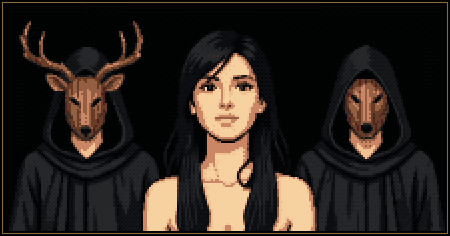
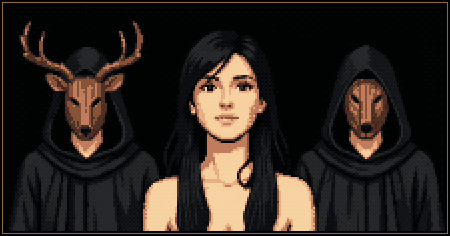
Pin the stage close-up palette so Eleanor's face is unchanged
The locks shifted the generated palette, which re-dithered her lips. Use
the palette the panels had before, so only the hair differs from main.

diff --git a/tools/art/closeup.py b/tools/art/closeup.py
@@ -33,18 +33,16 @@ HALF = (AW - BAR) // 2
 MICAH_SRC = os.path.join(ROOT, "tools", "art", "src", "convent_micah.png")
 ELEANOR_SRC = os.path.join(ROOT, "tools", "art", "src", "convent_eleanor.png")
 MICAH_FACE_X, ELEANOR_FACE_X = 672, 665  # face centres in the 1344x768 sources
+# One palette for both stage variants, so they differ only where the dress is. Pinned to the one the pictures had
+# before the locks of hair were painted in, so her face reduces to exactly the same pixels as it always did.
+STAGE_PALETTE = [hx(c) for c in """
+f6d3a3 f6d1a2 f6cf9d e6af84 c07c5c 865338 4d3124 26282b 252729 242628 781f27 4f1b1b 242223 1e2022 18181a 141518
+111316 101114 0d0e11 0a0c0f 0a090b 060608 030405 030204 010202 010102 010101 010100 010001 000101 000001 000000
+""".split()]
 
 
-def shared_palette(nude, clothed):
-    """One palette for both variants, so they differ only where the dress is."""
-    both = Image.new("RGB", (AW, AH * 2))
-    both.paste(nude.convert("RGB").resize((AW, AH), Image.BOX), (0, 0))
-    both.paste(clothed.convert("RGB").resize((AW, AH), Image.BOX), (0, AH))
-    return palette_of(both, COLOURS)
-
-
-def stage_closeup(src, pal):
-    """Eleanor on the stage, framed; src is the nude or the clothed picture, pal their shared palette."""
+def stage_closeup(src, pal=STAGE_PALETTE):
+    """Eleanor on the stage, framed; src is the nude or the clothed picture."""
     return framed(src.convert("RGB"), pal)
 
 
@@ -155,9 +153,8 @@ def heraldry_closeup():
 
 def build():
     nude, clothed = Image.open(SRC), Image.open(CLOTHED_SRC)
-    pal = shared_palette(nude, clothed)
-    save(stage_closeup(nude, pal), "ui", "stage_closeup.png")
-    save(stage_closeup(clothed, pal), "ui", "stage_closeup_clothed.png")
+    save(stage_closeup(nude), "ui", "stage_closeup.png")
+    save(stage_closeup(clothed), "ui", "stage_closeup_clothed.png")
     save(rose_closeup(Image.open(ROSE_SRC)), "ui", "rose_closeup.png")
     save(beaten_closeup(Image.open(BEATEN_SRC)), "ui", "beaten_closeup.png")
     save(convent_closeup(Image.open(MICAH_SRC), Image.open(ELEANOR_SRC)), "ui", "convent_closeup.png")

diff --git a/tests/art/test_stage_closeup.py b/tests/art/test_stage_closeup.py
@@ -22,10 +22,8 @@ def inner(panel):
 class StageCloseupTests(unittest.TestCase):
     @classmethod
     def setUpClass(cls):
-        nude, clothed = Image.open(closeup.SRC), Image.open(closeup.CLOTHED_SRC)
-        pal = closeup.shared_palette(nude, clothed)
-        cls.nude = closeup.stage_closeup(nude, pal)
-        cls.clothed = closeup.stage_closeup(clothed, pal)
+        cls.nude = closeup.stage_closeup(Image.open(closeup.SRC))
+        cls.clothed = closeup.stage_closeup(Image.open(closeup.CLOTHED_SRC))
 
     def test_committed_panels_match_the_build_and_fit_the_screen(self):
         # nearly the whole 480x270 screen, with the room still showing around it
